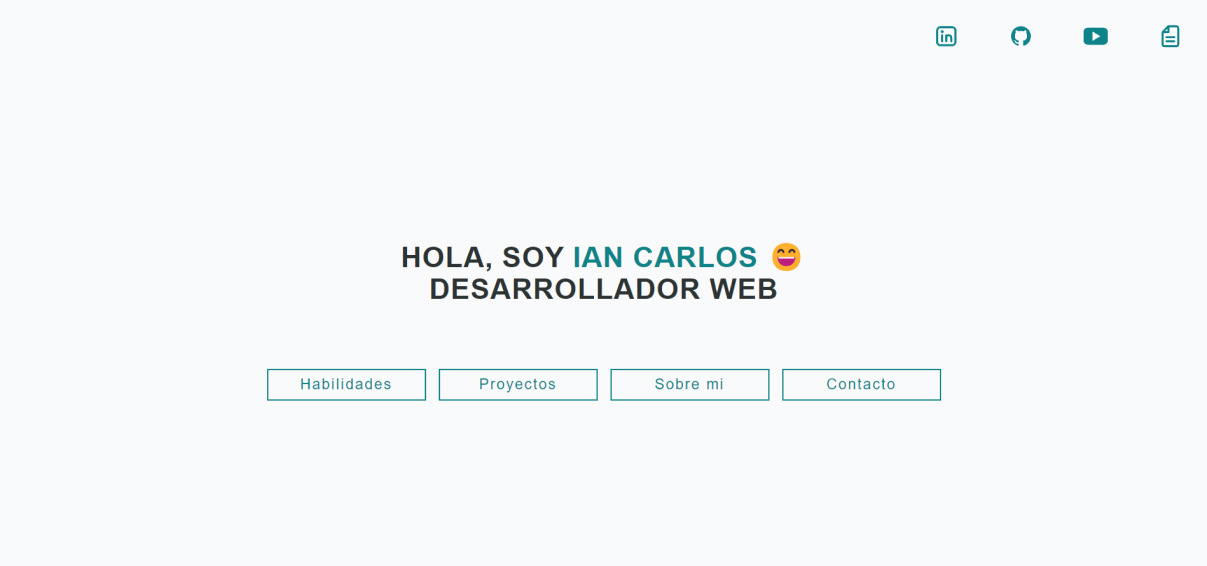
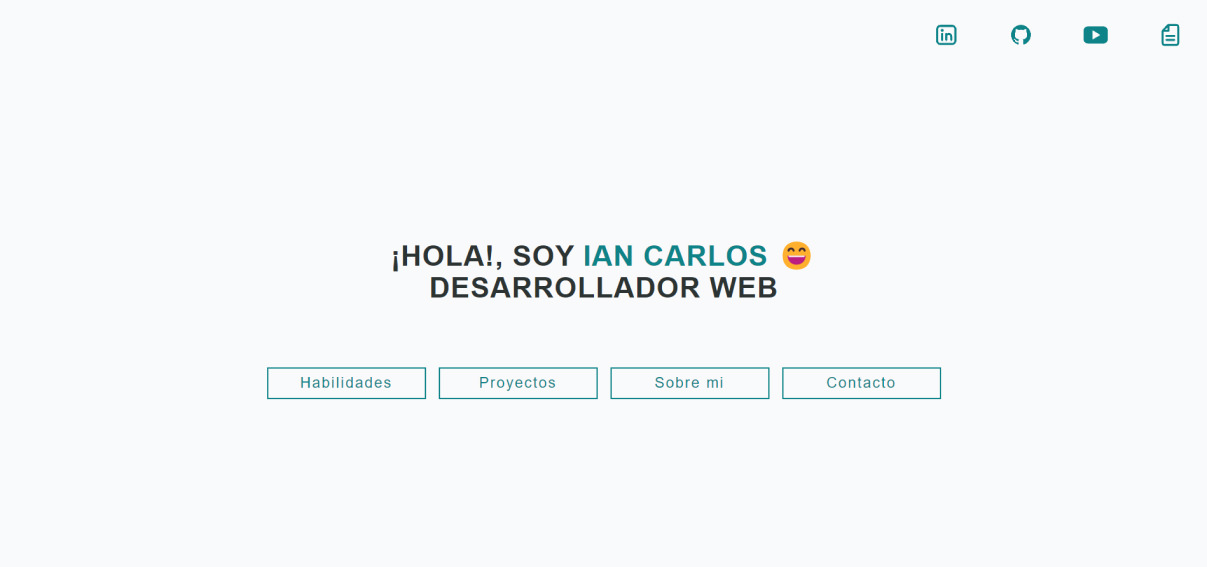
Change Hola to ¡Hola! in home page

diff --git a/pages/index.js b/pages/index.js
@@ -24,7 +24,7 @@ export default function Home() {
 				<meta name='googlebot' content='index, follow' />
 				<meta name='google' content='nositelinkssearchbox' />
 				<meta name='google' content='notranslate' />
-				<meta property='og:url' content='https://iancarlosortega.dev/' />
+				<meta property='og:url' content='https://iancarlosortega.com/' />
 				<meta property='og:type' content='website' />
 				<meta property='og:image' content={`${origin}/images/banner.jpg`} />
 				<meta

diff --git a/components/Main.js b/components/Main.js
@@ -6,7 +6,7 @@ export const Main = () => {
 			<Navbar />
 			<div className='flex-1 flex flex-col items-center justify-center p-8'>
 				<h2 className='uppercase text-3xl md:text-4xl text-secondary font-bold tracking-wide text-center animate-left-right'>
-					Hola, soy <span className='text-primary'>Ian Carlos</span> &#128516;{' '}
+					¡Hola!, soy <span className='text-primary'>Ian Carlos</span> &#128516;{' '}
 					<br />
 					Desarrollador Web
 				</h2>
